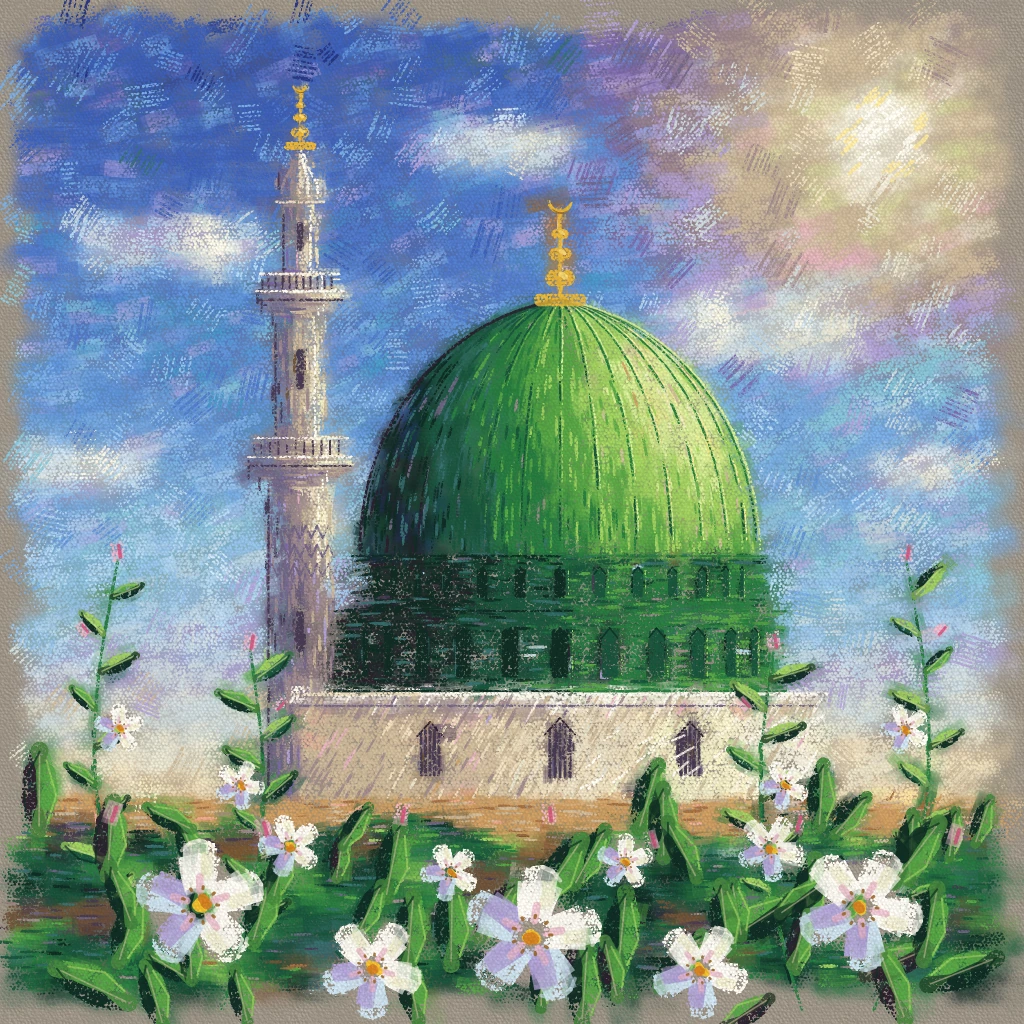
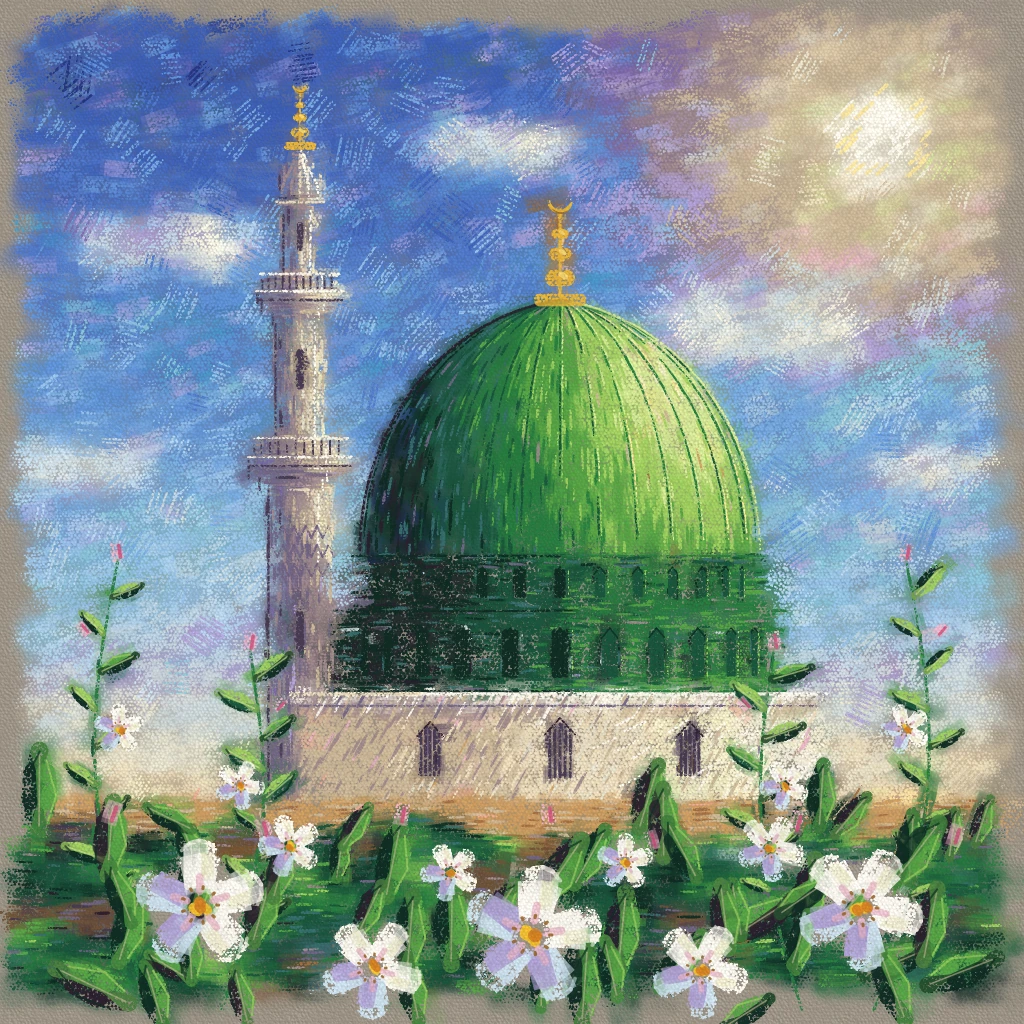
Atölye: süren stil çalışmalarının ara kaydı
Claude-Session: https://claude.ai/code/session_01Q8CfoBGMPN7gfLWQYpMs1J

diff --git a/atolye/stiller/S-003-pastel/ornek.html b/atolye/stiller/S-003-pastel/ornek.html
@@ -372,7 +372,7 @@
     const b = bolge(x, y);
     if (gokMu(b) && R() < 0.35) continue;
     let c = hedef(x + (R() - 0.5) * 6, y + (R() - 0.5) * 6);
-    if (gokMu(b) && R() < 0.2) c = mixc(c, R() < 0.35 ? [232, 190, 206] : [255, 244, 220], 0.4); // gökte sıcak kırık renk
+    if (gokMu(b) && R() < 0.2) c = mixc(c, R() < 0.35 && Math.hypot(x - 880, y - 140) > 320 ? [232, 190, 206] : [255, 244, 220], 0.4); // gökte sıcak kırık renk
     if (b === BI.kubbe && kubbeU(x, y) > 0.1 && R() < 0.18) c = mixc(c, [240, 214, 120], 0.4);
     if (b === BI.kubbe && kubbeU(x, y) < -0.3 && R() < 0.2) c = mixc(c, [62, 96, 182], 0.35);
     const k = cubukSec(c, 0.25), a = yon(x, y, 'yan') + (R() - 0.5) * 0.3;
@@ -394,12 +394,12 @@
     // gök: yer yer paralel çizgi öbekleri
     for (const [x, y] of noktalar(44, (x, y, b) => gokMu(b) && !kenarBos(x + 20, y + 20))) {
       const a = -1.0 + (R() - 0.5) * 0.9 + (R() < 0.25 ? 1.3 : 0), ca = Math.cos(a), sa = Math.sin(a);
-      const base = hedef(x, y), v = R();
-      const c = cubukSec(v < 0.45 ? mixc(base, [255, 252, 240], 0.35) : v < 0.62 ? mixc(base, [176, 160, 214], 0.2) : ton(base, 0.85), 0.15);
+      const base = hedef(x, y), v = R(), sicak = Math.hypot(x - 880, y - 140) < 300;
+      const c = cubukSec(v < 0.45 ? mixc(base, [255, 252, 240], 0.35) : v < 0.62 ? mixc(base, sicak ? [252, 230, 158] : [176, 160, 214], 0.22) : ton(base, sicak ? 0.95 : 0.85), 0.15);
       const adet = 4 + Math.floor(R() * 7), L0 = 16 + R() * 20;
       for (let k = 0; k < adet; k++) {
         const o = (k - adet / 2) * (4 + R() * 1.5), L = L0 * (0.7 + R() * 0.5), sx = x - sa * o + (R() - 0.5) * 4, sy = y + ca * o;
-        if (!gokMu(bolge(sx, sy))) continue;
+        if (!gokMu(bolge(sx, sy)) || kenarBos(sx - ca * L / 2, sy - sa * L / 2) || kenarBos(sx + ca * L / 2, sy + sa * L / 2)) continue;
         cizgi([[sx - ca * L / 2, sy - sa * L / 2], [sx, sy], [sx + ca * L / 2, sy + sa * L / 2]], 1.8 + R() * 1.4, c, 0.58 + R() * 0.2);
       }
     }

diff --git a/atolye/stiller/S-018-art-nouveau/ornek.html b/atolye/stiller/S-018-art-nouveau/ornek.html
@@ -37,7 +37,7 @@
   // kalın-ince kontur: sağ altta kalın, sol üstte ince (çizer elinin baskısı)
   function kontur(p, w, renk) {
     p = typeof p === 'string' ? P2(p) : p;
-    w = w || 1.3;
+    w = (w || 1.3) * 1.18;
     ctx.save();
     const dis = new Path2D();
     dis.rect(-60, -60, 1144, 1144);
@@ -191,7 +191,7 @@
   }
   // süs bulutları: üstü sarmal kıvrımlı yatay kümeler
   function susBulut(x, y, s, ayna) {
-    ctx.save(); ctx.translate(x, y); ctx.scale(ayna ? -s : s, s);
+    ctx.save(); ctx.translate(x, y); ctx.scale(ayna ? -s * 1.35 : s * 1.35, s * 0.82);
     const p = new Path2D();
     p.moveTo(-80, 10);
     p.bezierCurveTo(-96, 10, -96, -10, -78, -10);
